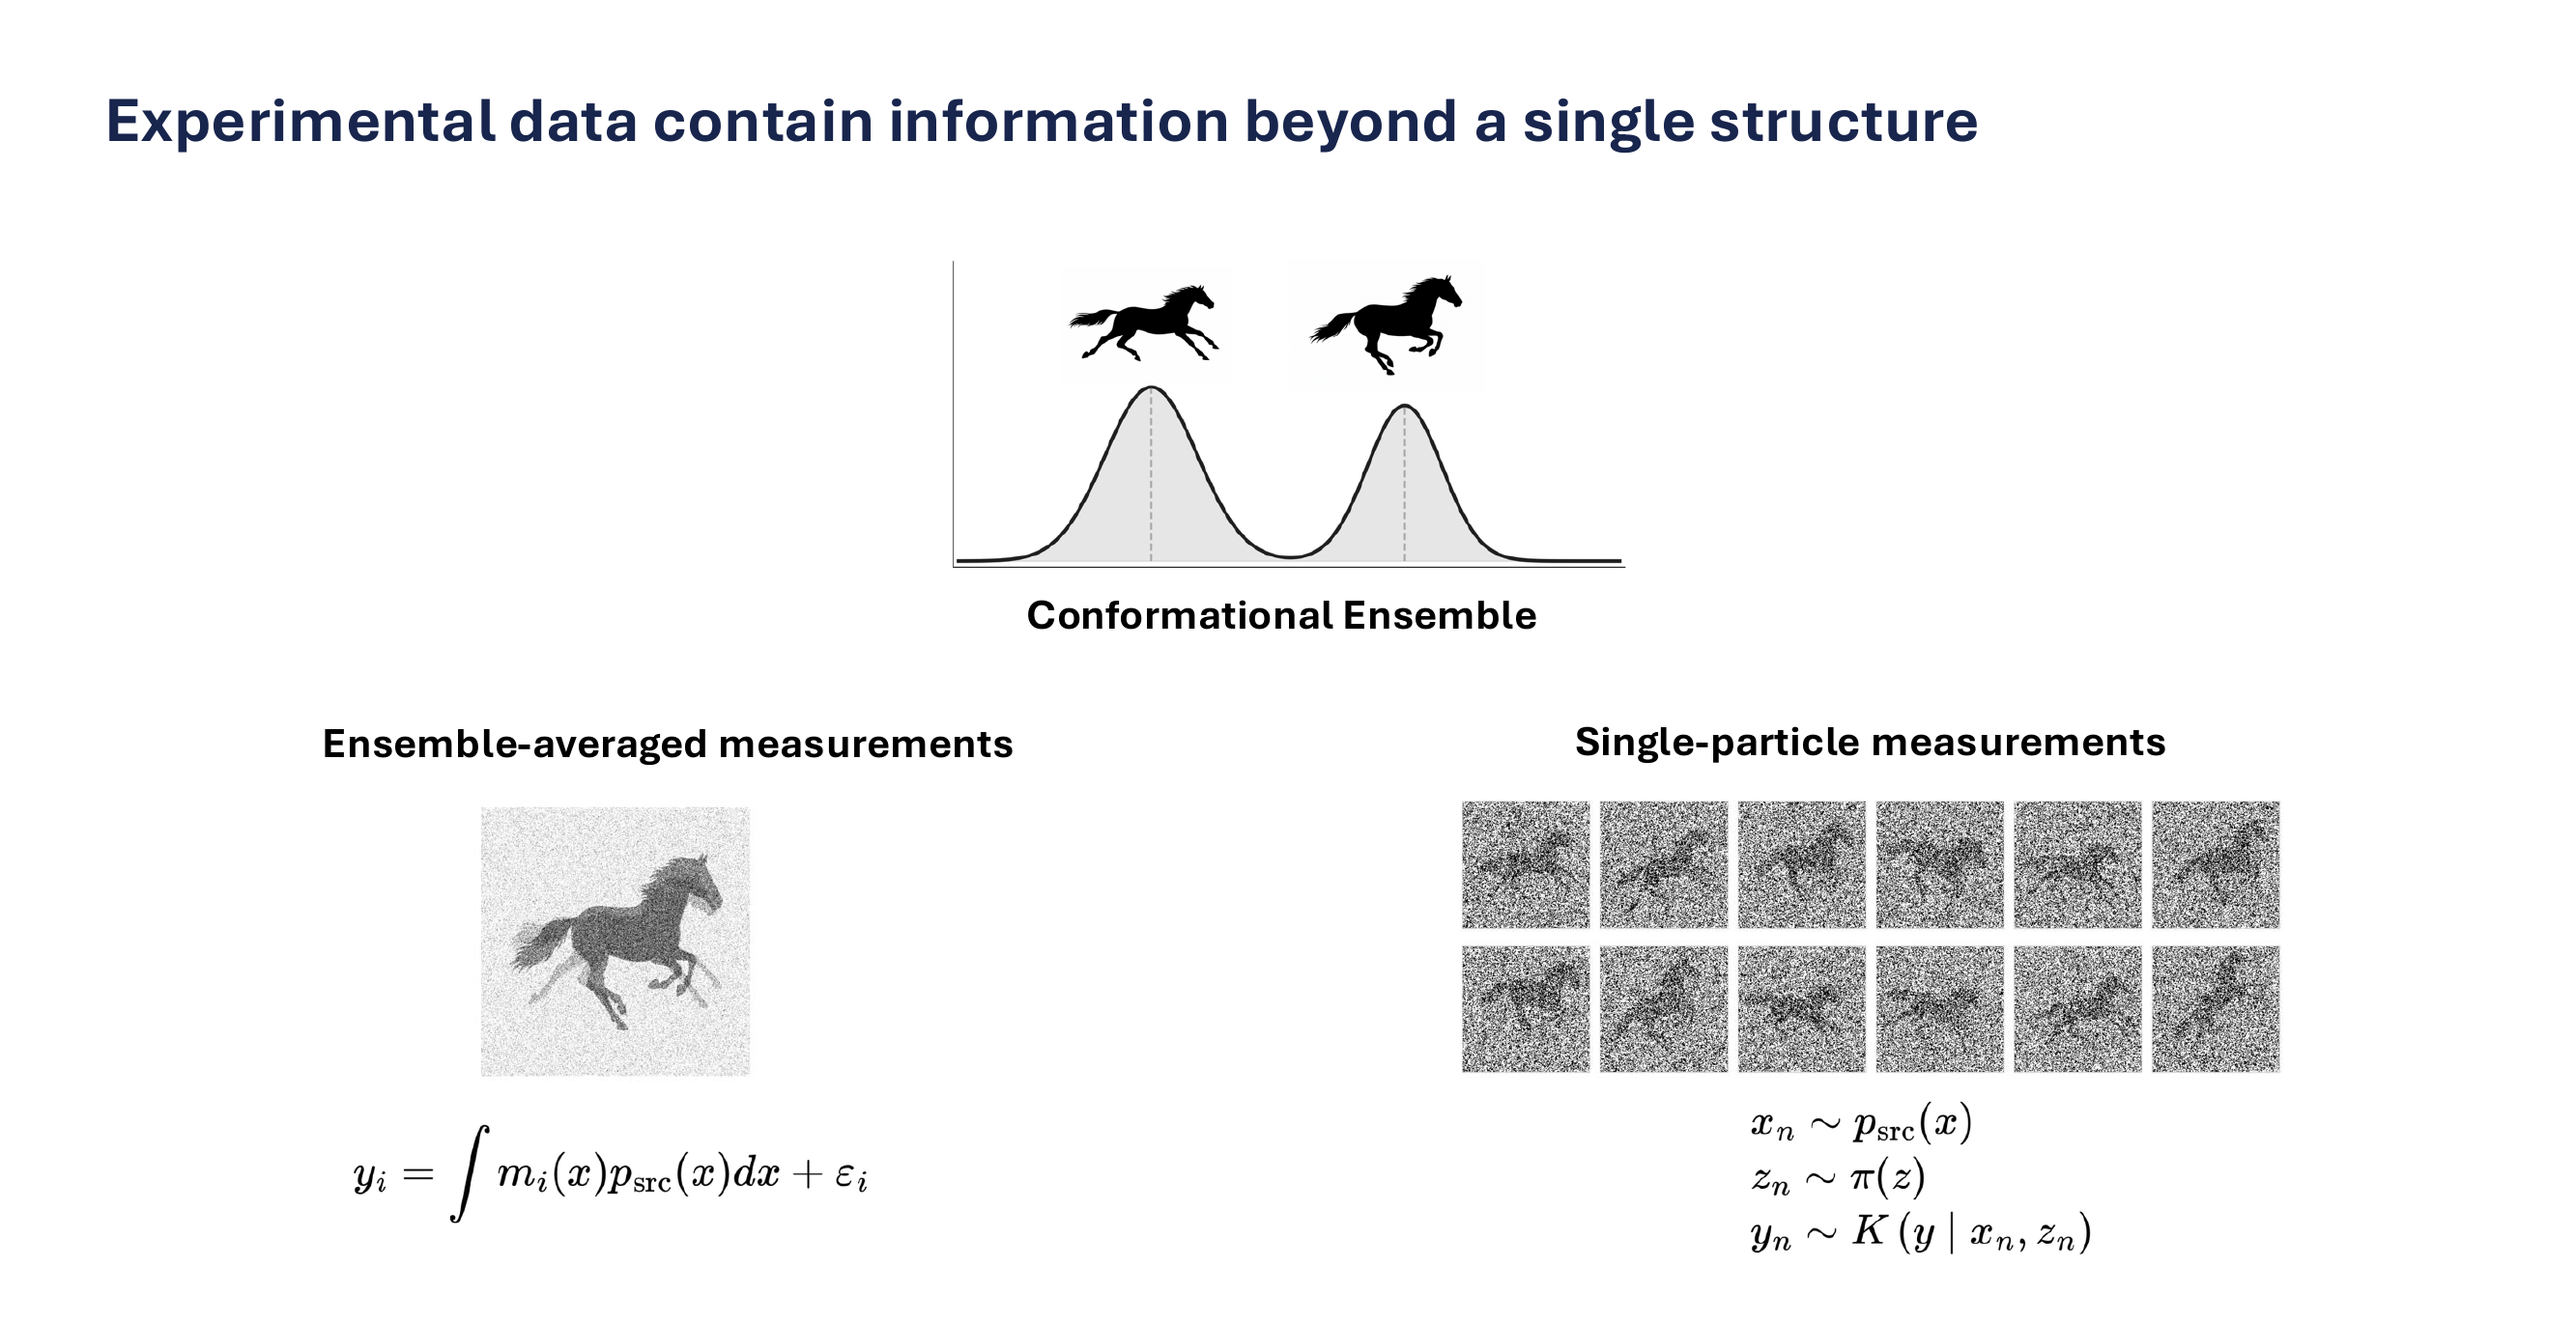
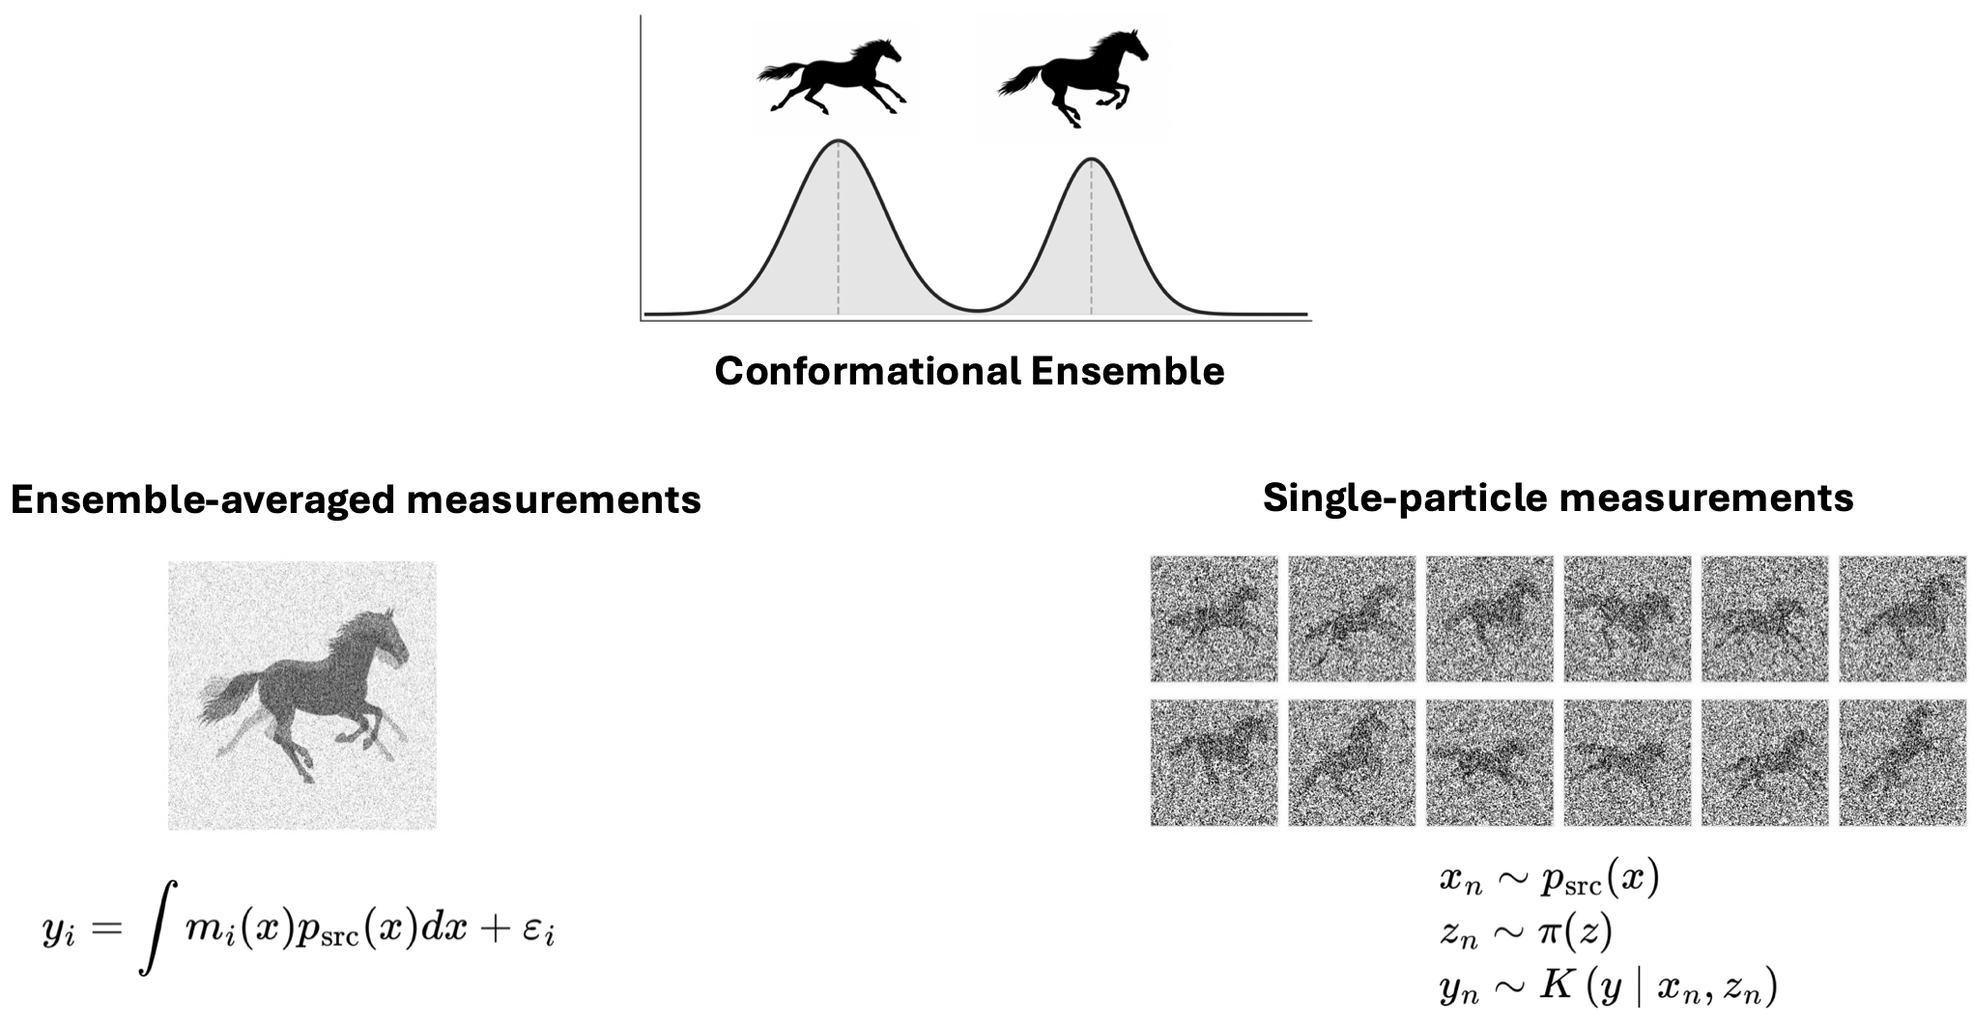
Post layout: byline contact, caption typography, drop cap
Presentation work driven by the new ensemble post, but reusable:

- post layout: byline gains an optional `contact` front-matter field,
  rendered as a muted tail on the same line as the authors instead of
  as a second orphan paragraph. Guarded by `{% if %}`, so existing
  posts are unchanged.
- captions: `.blog-caption` / `.blog-caption-wide` were full-size
  italic body text, indistinguishable from a paragraph. Now 0.875rem,
  grey, centered. Figures became blocks with a gap above the caption.
- `.blog-image-hero`: 90%-width lead figure, centered with auto
  margins so the width is measured against the full column.
- `.post-lead`: opt-in drop cap on a post's first paragraph.

Also swap in the updated figure (no slide chrome), move it to the top
of the post as a lead image, and retarget the one in-text reference
that said "the figure below".

Ignore vendor/ so a local `bundle config set path vendor/bundle`
preview build cannot be committed by accident.

diff --git a/assets/css/styles.css b/assets/css/styles.css
@@ -684,6 +684,32 @@ body.hero-page .navbar.navbar-scrolled .navbar-brand {
   opacity: 0.55;
 }
 
+/* Post byline — authors, with an optional muted contact tail */
+#content-body > .post-byline {
+  color: #3d4756;
+}
+#content-body > .post-byline .post-contact {
+  color: #6b7280;
+  font-size: 0.875em;
+  white-space: nowrap;
+}
+#content-body > .post-byline .post-contact::before {
+  content: '·';
+  margin: 0 0.55em;
+  color: #b6bfcc;
+}
+
+/* Lead paragraph — a drop cap marks where the article proper begins. */
+#content-body > .post-lead::first-letter {
+  float: left;
+  font-size: 3.4rem;
+  line-height: 0.82;
+  font-weight: 800;
+  color: var(--rss-blue);
+  padding-right: 0.06em;
+  margin-top: 0.05em;
+}
+
 /* Footnotes / small print */
 #content-body small {
   display: inline-block;
@@ -855,6 +881,15 @@ footer .container p {
   opacity: 0.7;
 }
 
+/* Figures sit as blocks with a small gap before their caption. */
+.blog-image,
+.blog-image-narrow,
+.blog-image-wide,
+.blog-image-hero {
+  display: block;
+  margin-bottom: 0.7rem;
+}
+
 .blog-image {
   margin-right: 10%;
   margin-left: 10%;
@@ -871,15 +906,27 @@ footer .container p {
   width: 100%;
 }
 
-.blog-caption {
-  display: inline-block;
-  font-style: italic;
-  padding: 0 15%;
+/* Lead figure — centered with auto margins rather than a percentage pair,
+   so the width is measured against the full column. */
+.blog-image-hero {
+  width: 90%;
+  margin-left: auto;
+  margin-right: auto;
 }
 
+/* Captions read as metadata, not body copy: smaller, muted, centered. */
+.blog-caption,
 .blog-caption-wide {
-  display: inline-block;
+  display: block;
   font-style: italic;
+  font-size: 0.875rem;
+  line-height: 1.65;
+  color: #6b7280;
+  text-align: center;
+}
+
+.blog-caption {
+  padding: 0 15%;
 }
 
 /* end custom things */

diff --git a/_layouts/post.html b/_layouts/post.html
@@ -6,7 +6,7 @@ layout: content_page
 <p>{{ page.date | date_to_string }}</p>
 <h1>{{ page.title }}</h1>
 <h3>{{ page.subtitle }}</h3>
-<p>{{ page.author }}</p>
+<p class="post-byline">{{ page.author }}{% if page.contact %}<span class="post-contact">{{ page.contact }}</span>{% endif %}</p>
 
 {{ content }}
 

diff --git a/_posts/2026-08-03-are-we-seeing-the-ensemble.md b/_posts/2026-08-03-are-we-seeing-the-ensemble.md
@@ -3,12 +3,16 @@ layout: post
 title: Are We Seeing the Ensemble?
 subtitle: How structural biology experiments preserve, blur, or lose molecular ensembles
 author: Minhuan Li, F. Emil Thomasen, Pilar Cossio
+contact: "{minhuanli,fthomasen,pcossio}@flatironinstitute.org"
 usemathjax: true
 ---
 
-*Contact: [minhuanli@flatironinstitute.org](mailto:minhuanli@flatironinstitute.org), [fthomasen@flatironinstitute.org](mailto:fthomasen@flatironinstitute.org), [pcossio@flatironinstitute.org](mailto:pcossio@flatironinstitute.org)*
+![Two ways an experiment can encode a conformational ensemble](/assets/posts/2026-08-03-are-we-seeing-the-ensemble/measurement_types.png){: .blog-image-hero}
+Two ways in which an experiment can encode a conformational ensemble. Ensemble-averaged measurements combine contributions from many molecules into each observable. In single-particle or single-molecule measurements, each observation arises from an individual molecule, and the ensemble is represented statistically across many observations.
+{: .blog-caption-wide}
 
 Ensemble-inference approaches are rapidly becoming a research frontier across structural biology. But asking a biophysical experiment for a distribution is different from asking it for a structure. Before reaching for a better inference method, we first have to ask how the experiment encoded the ensemble and how much of that information survived measurement and processing. Different modalities answer this question differently: some measure noisy samples from the distribution, while others compress the ensemble into a set of averaged observables.
+{: .post-lead}
 
 This distinction cuts across structural biology. Here we begin with cryo-electron microscopy (cryo-EM), where particle images and reconstructed maps provide two different observables of the same sample. Their contrast illustrates a broader principle that will apply across experimental modalities: the suitability of a target for ensemble inference depends not only on its structural detail, but also on how faithfully it retains information about the underlying distribution. To understand why, start with the object we are trying to recover.
 
@@ -31,11 +35,7 @@ But this ideal distribution might not be the one that enters the instrument. Exp
 
 ### How experiments observe the source distribution
 
-Once the immediate target is $$p_{\mathrm{src}}$$, the next question is what kind of trace the experiment leaves behind. Broadly, there are two, as illustrated in the figure below. Some experiments combine contributions from many molecules into ensemble-averaged observables. Others are molecule-resolved: individual observations arise from individual molecules, and the ensemble appears statistically across many observations.
-
-![Two ways an experiment can encode a conformational ensemble](/assets/posts/2026-08-03-are-we-seeing-the-ensemble/measurement_types.png){: .blog-image-wide}
-Two ways in which an experiment can encode a conformational ensemble. Ensemble-averaged measurements combine contributions from many molecules into each observable. In single-particle or single-molecule measurements, each observation arises from an individual molecule, and the ensemble is represented statistically across many observations.
-{: .blog-caption-wide}
+Once the immediate target is $$p_{\mathrm{src}}$$, the next question is what kind of trace the experiment leaves behind. Broadly, there are two, as illustrated in the figure at the top of this post. Some experiments combine contributions from many molecules into ensemble-averaged observables. Others are molecule-resolved: individual observations arise from individual molecules, and the ensemble appears statistically across many observations.
 
 For an ensemble-average measurement, the data take the form
 
